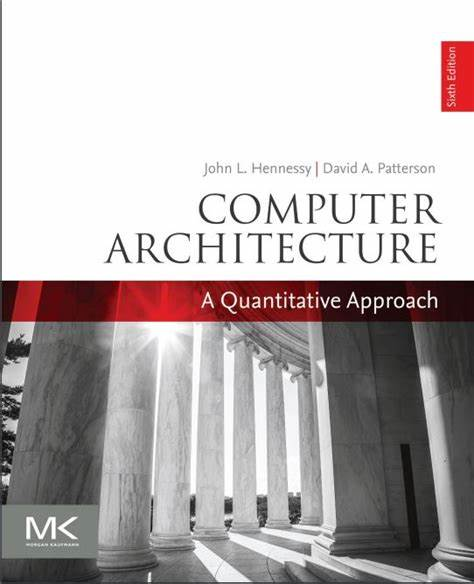
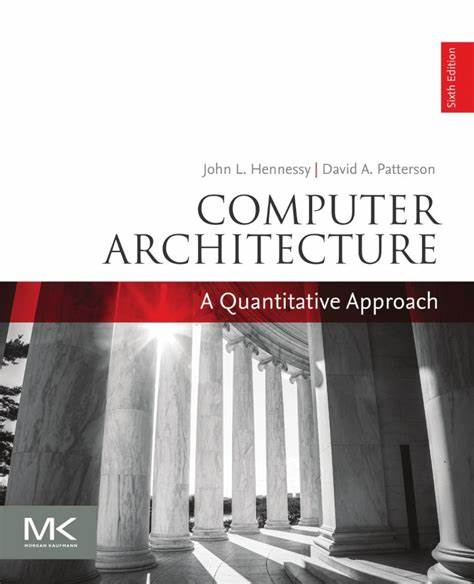
ca26

diff --git a/computer-architecture.md b/computer-architecture.md
@@ -1,0 +1,86 @@
+---
+marp: true
+theme: gaia
+title: 计算机系统结构
+# size: 4:3
+---
+
+<!-- _class: lead -->
+
+# 课堂简介
+
+计算机学院 & 武汉光电国家研究中心
+华中科技大学
[phone redacted] 至 2024-05-07
+
+---
+
+## 课程资料
+
+<style scoped>
+  li {
+    font-size: 20px;
+  }
+</style>
+
+- 教材: [计算机系统结构教程（第2版）](http://www.tup.tsinghua.edu.cn/booksCenter/book_05056301.html), 清华大学出版社, 2014
+- 参考书
+  - [**计算机系统结构（微课版）**](https://www.ptpress.com.cn/shopping/buy?bookId=43961df3-4a07-4e0e-8b0f-bdf3b21d695f), 人民邮电出版社, 2024
+  - [John Hennessy](https://hennessy.stanford.edu/), [David Patterson](https://www2.eecs.berkeley.edu/Faculty/Homepages/patterson.html), [**Computer Architecture: A Quantitative Approach**, 6th Edition.](https://www.elsevier.com/books/computer-architecture/hennessy/978-0-12-811905-1), 2017
+  - [**计算机体系结构：量化研究方法**（第6版）](https://item.jd.com/13427803.html), 人民邮电出版社, 2017
+- 课堂实验 <https://github.com/cs-course/computer-architecture-experiment>
+
+![height:300px](images/text-book-1.png) ![height:300px](images/text-book-3.jpg) ![height:300px](images/caqa6e.jpg) ![height:300px](images/caqa6e-cn.jpg)
+
+---
+
+## 教师信息
+
+- **王海卫**，**施展**，武汉光电国家研究中心，存储部
+- 联系方式
+  - 主页
+    - <https://faculty.hust.edu.cn/wanghaiwei/zh_CN/index.htm>
+    - <http://faculty.hust.edu.cn/shizhan/zh_CN/index.htm>
+    - <https://shizhan.github.io/>, <https://shi_zhan.gitee.io/>
+
+---
+
+## 授课目标
+
+- 从系统层面认识计算机
+- 建立整机系统概念
+- 总体设计与设计策略
+
+---
+
+## 评分构成
+
+- **作业** *20%*
+  - 每章一次作业
+- **实验** *20%*
+  - [头哥](https://www.educoder.net/classrooms/iua8p7kn?code=DORTCN)，至05月31日
+- **考试** *60%*
+
+---
+
+## 课程计划
+
+<style scoped>
+  table {
+    width: 100%;
+    font-size: 25px;
+  }
+</style>
+
+地点：**西十二楼 N401**
+
+| 周次 | 日期 (周二、周四) | 内容 |
+| :- |:--------|:------|
+| 第 3 周 | 03-17, 03-19 | [计算机系统结构基础](pdfs/第1章-概述.pdf) |
+| 第 4 周 | 03-24, 03-26 | [流水线技术](pdfs/第3章-流水线技术.pdf) |
+| 第 5 周 | 03-30, 04-02 | [指令级并行](pdfs/第5章-指令级并行.pdf) |
+| 第 6 周 | 04-07, 04-09 | [存储系统](pdfs/第7章-存储系统.pdf) |
+| 第 7 周 | 04-14, 04-16 | [存储系统](pdfs/第7章-存储系统.pdf) |
+| 第 8 周 | 04-21, 04-23 | [I/O 系统](pdfs/第8章-IO系统.pdf) |
+| 第 9 周 | 04-28, 04-30 | [互联网络](pdfs/第9章-互联网络.pdf) |
+| 第 10 周 | ~~05-05~~, 05-07, 05-09 | [多处理机](pdfs/第10章-多处理机.pdf) + [习题参考](pdfs/习题参考答案.pdf) |